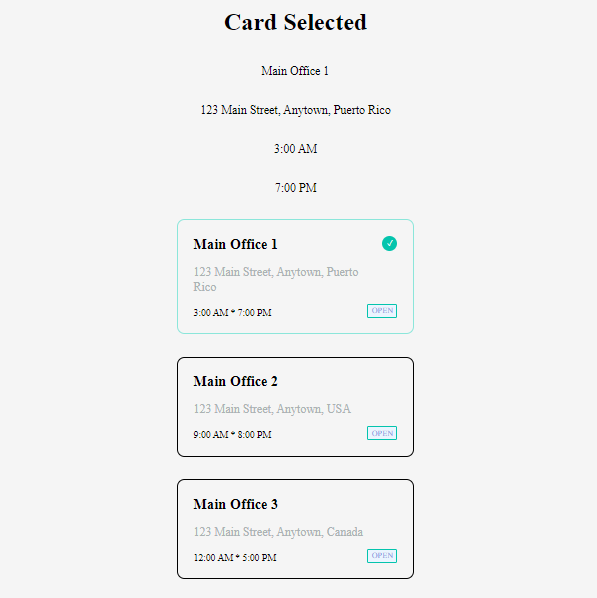
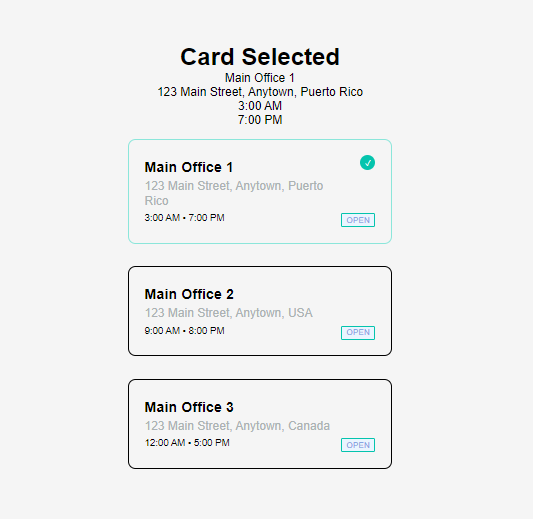
add Global Style and font styles

diff --git a/src/components/Card/CardStyles.ts b/src/components/Card/CardStyles.ts
@@ -4,7 +4,7 @@ interface isActive {
   isActive: boolean;
 }
 export const CardContainer = styled.div<isActive>`
-width: 17rem;
+width: 22rem;
 border: 2px solid ${(props) => (props.isActive ? '#8be6da' : '#000')};} ;
 border-radius: 10px;
 margin: 15px 0;
@@ -15,9 +15,9 @@ cursor: pointer;
 `;
 
 export const CardTitle = styled.h3`
-  font-weight: 800;
+  font-weight: 700;
   font-size: 1.2em;
-  margin: 0;
+  padding: 5px 0;
 `;
 export const CardText = styled.p`
   font-weight: 300;
@@ -29,7 +29,7 @@ export const CardText = styled.p`
 export const CardTime = styled.p`
   font-weight: 400;
   font-size: 0.8em;
-  margin: 0;
+  padding: 5px 0;
 `;
 
 export const CardStatus = styled.div`

diff --git a/src/components/Card/Card.tsx b/src/components/Card/Card.tsx
@@ -1,4 +1,4 @@
-import { useState, MouseEvent } from 'react';
+import { MouseEvent } from 'react';
 import {
   CardContainer,
   CardStatusIconCheck,
@@ -34,7 +34,7 @@ function Card(props: CardProps) {
           <CardText>{description}</CardText>
           <CardTime>
             {from}
-            <span> * </span>
+            <span> • </span>
             {to}
           </CardTime>
         </div>

diff --git a/src/App.tsx b/src/App.tsx
@@ -1,8 +1,13 @@
+import GlobalStyle from './globalStyle';
 import ContainerComponent from './components/Container/Container';
-const App = () => {
-    return (
-        <ContainerComponent/>
-    )
-}
 
-export default App
+const App = () => {
+  return (
+    <>
+      <GlobalStyle />
+        <ContainerComponent />
+    </>
+  );
+};
+
+export default App;

diff --git a/src/globalStyle.ts b/src/globalStyle.ts
@@ -1,0 +1,11 @@
+import {createGlobalStyle} from "styled-components"
+
+export default createGlobalStyle`
+    *{
+        margin: 0;
+        padding: 0;
+        box-sizing:border-box;
+        font-family: 'Open Sans', sans-serif; 
+    }
+    
+`
